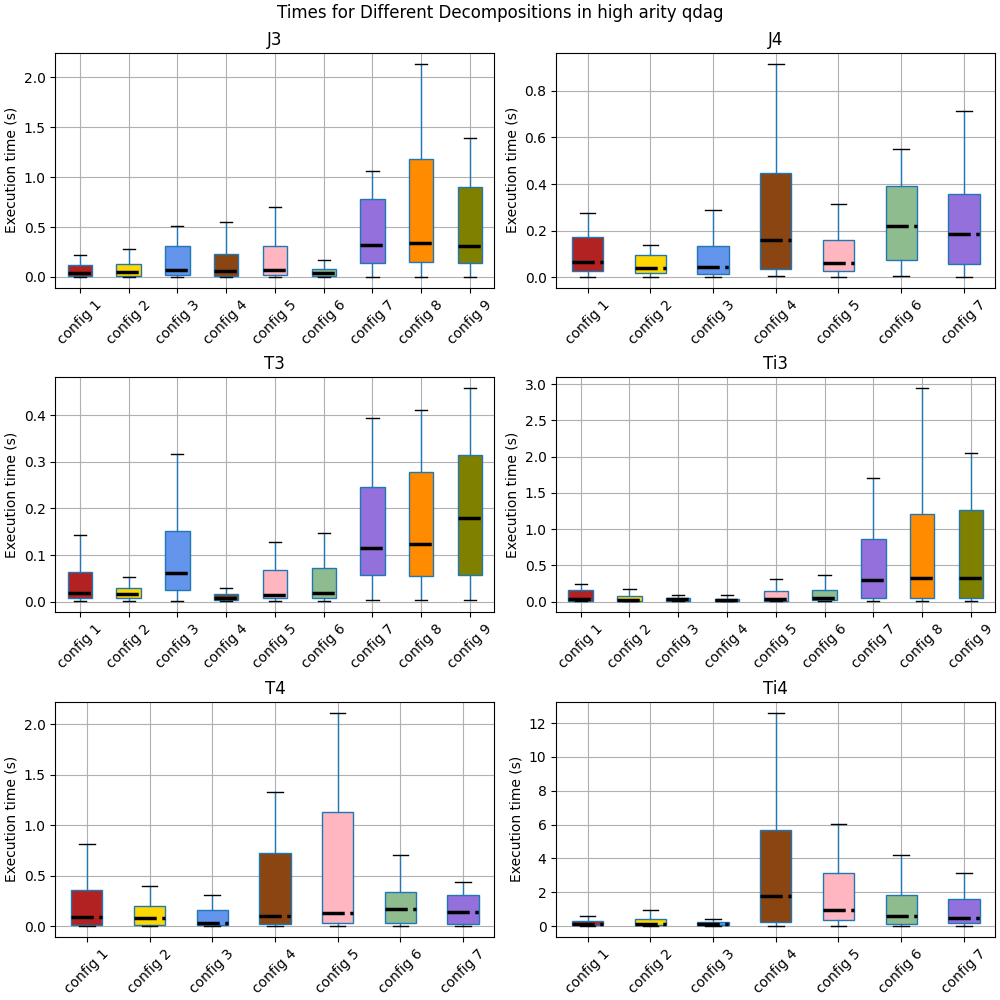
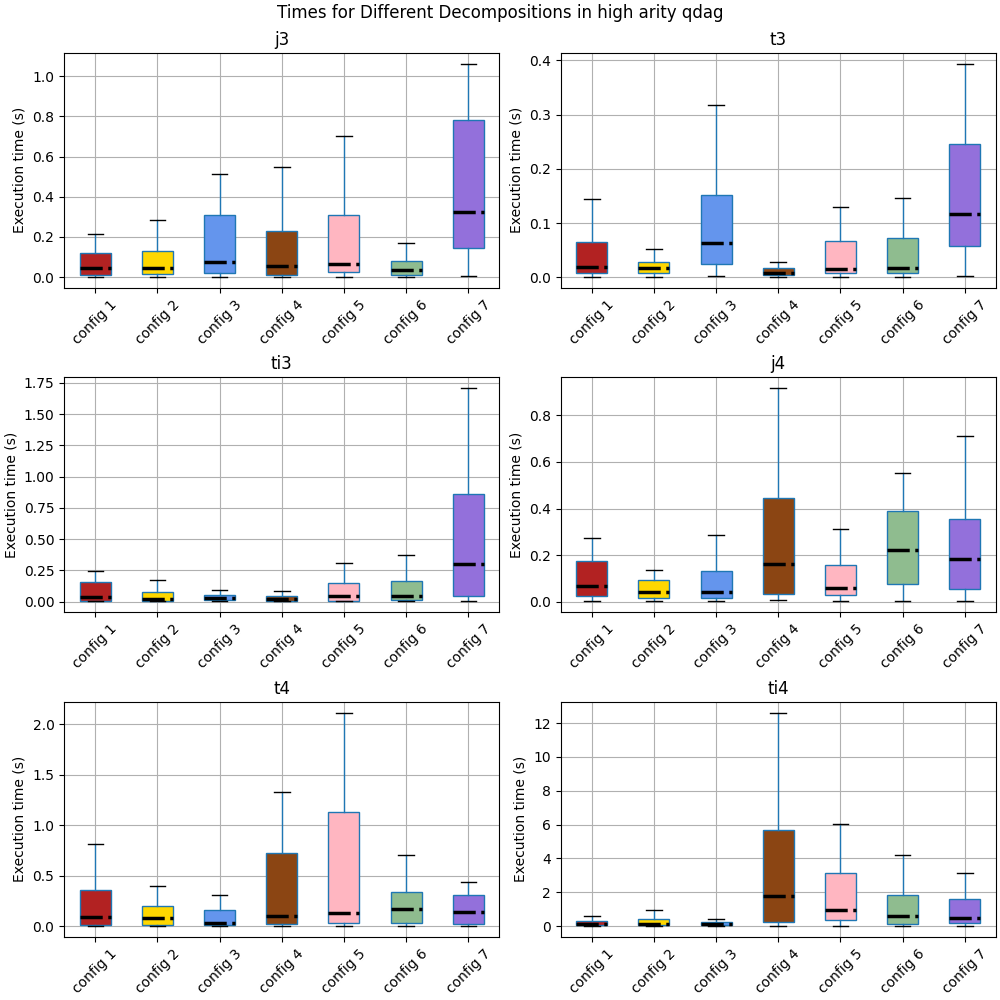
replot config

diff --git a/plotter.py b/plotter.py
@@ -4,18 +4,61 @@ import numpy as np
 
 ghd_confs={
     "bowtie":1,
-    "J3":9,
-    "J4":7,
+    "j3":7,
+    "j4":7,
     "triangle_barbell":1,
     "triangle_tadpole":1,
-    "Ti4":7,
+    "ti4":7,
     "square_tadpole":1,
     "square_barbell":1,
     "penta_barbell":1,
-    "T3":9,
-    "T4":7,
-    "Ti3":9,
+    "t3":7,
+    "t4":7,
+    "ti3":7,
 }
+
+def compare_times():
+    patterns = ["j3", "j4", "t3", "ti3", "t4", "ti4", "triangle_tadpole", "bowtie"]
+    multi = ["j3", "j4", "t3", "ti3", "t4", "ti4"]
+    data = {"Pattern": [], "Mean factor mj": [], "Mean factor ghd": []}
+    df = pd.DataFrame(data)
+    
+    for i, p in enumerate(patterns):
+        if p in multi:
+            yk_res_ha = pd.read_csv(f"outputs_time/{p}_ghd_yk_1.csv", names=["time"])
+            for j in range(2, ghd_confs[p]+1):
+                yk_res_ha = pd.merge(yk_res_ha, pd.read_csv(f"outputs_time/{p}_ghd_yk_{j}.csv", names=["time"]), left_index=True, right_index=True, suffixes=('', f'_{j}'))
+            yk_res_ha["GHD_ha"] = yk_res_ha.min(axis=1)
+
+            df_mj_ha = pd.read_csv(f"outputs_time/{p}_ghd_mj.csv", names=["multijoin_ha"])
+            
+            yk_res_og = pd.read_csv(f"C:/Users/crist/Documents/resultados_original_qdag/outputs_time/{p}_ghd_yk_1.csv", names=["time"])
+            for j in range(2, ghd_confs[p]+1):
+                yk_res_og = pd.merge(yk_res_og, pd.read_csv(f"C:/Users/crist/Documents/resultados_original_qdag/outputs_time/{p}_ghd_yk_{j}.csv", names=["time"]), left_index=True, right_index=True, suffixes=('', f'_{j}'))
+            yk_res_og["GHD_og"] = yk_res_og.min(axis=1)
+            
+            df_mj_og = pd.read_csv(f"C:/Users/crist/Documents/resultados_original_qdag/outputs_time/{p}_ghd_mj.csv", names=["multijoin_og"])
+        else:
+            df_mj_ha = pd.read_csv(f"outputs_time/{p}_mj.csv", names=["multijoin_ha"])
+            yk_res_ha = pd.read_csv(f"outputs_time/{p}_yk_1.csv", names=["GHD_ha"])
+            yk_res_og = pd.read_csv(f"C:/Users/crist/Documents/resultados_original_qdag/outputs_time/{p}_yk_1.csv", names=["GHD_og"])
+            df_mj_og = pd.read_csv(f"C:/Users/crist/Documents/resultados_original_qdag/outputs_time/{p}_mj.csv", names=["multijoin_og"])
+          
+
+        df_mj_og[df_mj_og['multijoin_og'] == 'timeout'] = 1800
+        df_mj_og["multijoin_og"] = pd.to_numeric(df_mj_og["multijoin_og"], downcast='float')
+        
+        df_mj_ha[df_mj_ha['multijoin_ha'] == 'timeout'] = 1800
+        df_mj_ha["multijoin_ha"] = pd.to_numeric(df_mj_ha["multijoin_ha"], downcast='float')
+        res = pd.merge(yk_res_og[["GHD_og"]], yk_res_ha[["GHD_ha"]], left_index=True, right_index=True)
+        res = pd.merge(res, df_mj_og, left_index=True, right_index=True)
+        res = pd.merge(res, df_mj_ha, left_index=True, right_index=True)
+        res["diff_ghd"] =  res["GHD_ha"]/res["GHD_og"]
+        res["diff_mj"] =  res["multijoin_ha"]/res["multijoin_og"]
+        row = {"Pattern": p, "Mean factor mj":  round(res["diff_mj"].mean(), 2), "Mean factor ghd": round(res["diff_ghd"].mean(), 2)}
+        df.loc[len(df)] = row
+    df.to_csv("outputs/qdag_variant_factor.csv", index=False)
+
 def min_time():
     multi = ["J3", "J4", "T3", "Ti3", "T4", "Ti4"]
     for i, m in enumerate(multi):
@@ -29,7 +72,7 @@ def min_time():
 
 
 def plot_config():
-    multi = ["J3", "J4", "T3", "Ti3", "T4", "Ti4"]
+    multi = ["j3", "t3", "ti3", "j4", "t4", "ti4"]
     medianprops = dict(linestyle='-.', linewidth=2.5, color='black')
 
     fig = plt.figure(layout='constrained', figsize=(10, 10))
